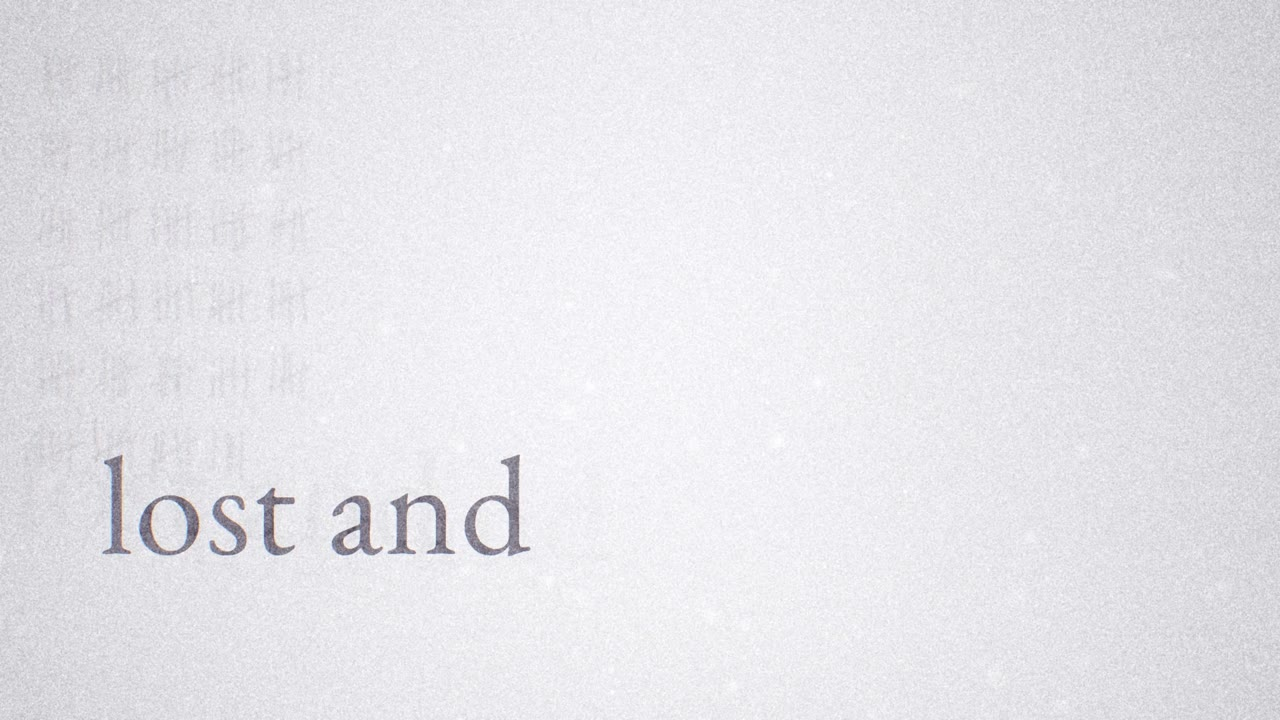
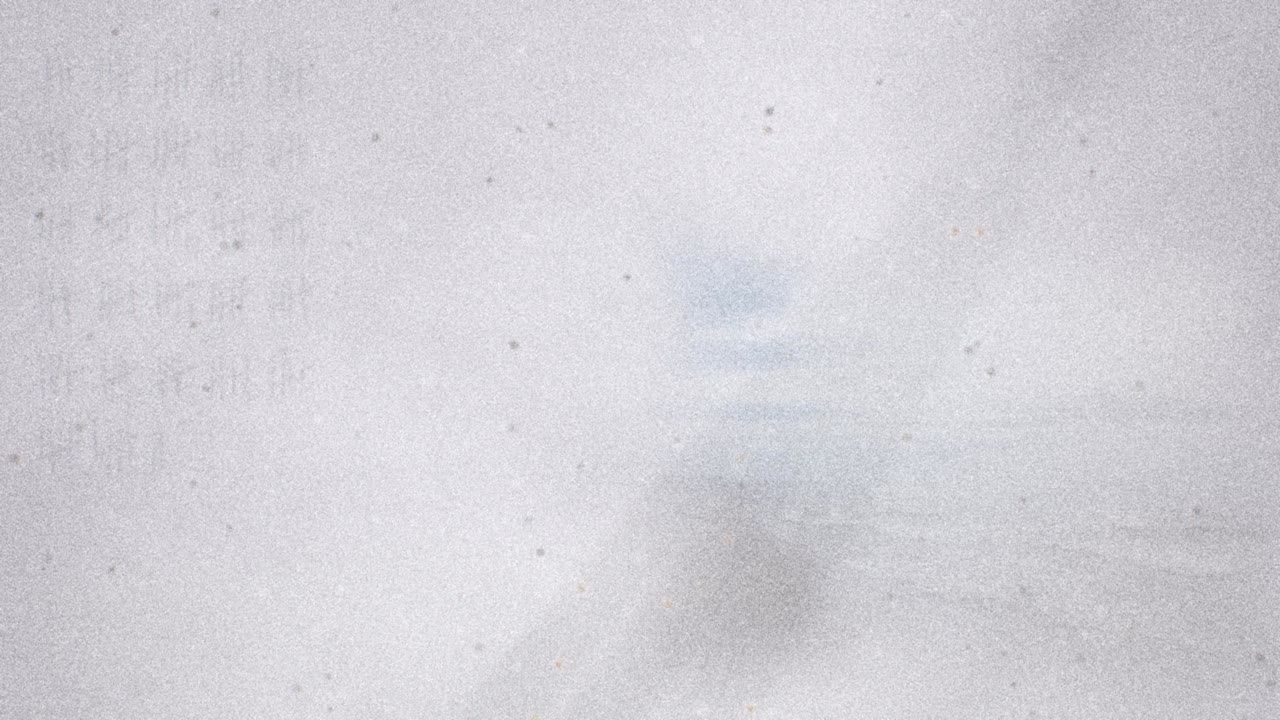
Outro: revised render (shadows and healed scars, no title) on the storyboard
Claude-Session: https://claude.ai/code/session_013aPae8dR11r7xw8o95d9Yi

diff --git a/storyboard/index.html b/storyboard/index.html
@@ -150,7 +150,7 @@ ol.steps li::marker { font: 600 0.85rem var(--mono); color: var(--ink-2); }
   </video>
   <figcaption><b>Outro</b>
     <span class="tc">7:32.1 → 8:13.6 · bars 133–145</span>
-    <span class="note">The loop closes. Her last sound is a wordless held note (7:38.8-7:54.5): in Break II her hum was the gold dust in his shafts; his light is gone now, so the dust drifts through her room on its own (a steady drift, no rise), warm only while she sings, and fades with her voice. The fog thins toward white and the Intro&#x27;s first memories (the curtained bedroom, the overcast lake) go. Then the title, which all film long was only an unreadable echo where &#x27;found...&#x27; landed, surfaces plainly in that same place, letter by letter, still, with the empty space after it: nothing completes it this time. The last tally mark scratches in to land on the last downbeat; the final frame is nearly the Intro&#x27;s first, white, &#x27;lost and&#x27; and its empty space, with the count of everything in between. No bullet. Starts a second early, at the end of the Verse A reprise. <a href="renders/outro_contact.jpg">Contact sheet</a></span></figcaption>
+    <span class="note">Revised: no title. The loop closes in the pale room. Her last sound is a wordless held note (7:38.8-7:54.5). In Break II her hum was the gold dust lit inside his shafts; his light is gone and light can&#x27;t glow here, so his shafts return as their absence, three faint cool shadows at their exact angles where his light used to fall, and the drifting dust warms only while she sings and only inside those bands. As her note ends, three healed scars surface where PROTECTING, TRUSTING and BELIEVING were sewn shut: thin grey seams with the ghosts of their stitches, no words, no red. The fog thins toward white and the Intro&#x27;s first memories go; the shadows go first, the scars last. The final tally mark lands on the last downbeat. Starts a second early, at the end of the Verse A reprise. <a href="renders/outro_contact.jpg">Contact sheet</a></span></figcaption>
 </figure>
 <figure class="render" id="render-verse_a_reprise">
   <video controls playsinline preload="metadata" poster="renders/verse_a_reprise_poster.jpg" width="1280" height="720">
@@ -703,9 +703,9 @@ ol.steps li::marker { font: 600 0.85rem var(--mono); color: var(--ink-2); }
       <h3>Outro</h3></header>
     
     <dl>
-      <dt>Picture</dt><dd>The loop closes. Her last sound is a wordless held note: in Break II her hum was the gold dust in his shafts; his light is gone, so the dust drifts through her room on its own, warm only while she sings. The fog thins toward white and the Intro&#x27;s first memories go. Then the title, all film long an unreadable echo where &#x27;found...&#x27; landed, surfaces plainly in that place, with the empty space after it: nothing completes it this time.</dd>
-      <dt>Type</dt><dd>&#x27;lost and&#x27;, in her roman, still, where &#x27;found&#x27; landed; nothing after it.</dd>
-      <dt>Sync</dt><dd>The dust warms with her note (7:38.8-7:54.5); the last tally mark lands on the last downbeat; the last frame is nearly the Intro&#x27;s first.</dd>
+      <dt>Picture</dt><dd>The loop closes, in the pale room. Her last sound is a wordless held note; in Break II her hum was the gold dust lit inside his shafts. His light is gone and light can&#x27;t glow here, so his shafts return as their absence: three faint cool shadows at their exact angles, where his light used to fall. The dust drifts through the room and warms only while she sings, and only inside those bands. After her note, where PROTECTING, TRUSTING and BELIEVING were sewn shut, three healed scars surface: thin grey seams with the ghosts of their stitches, no words, no red. The fog thins toward white and the Intro&#x27;s first memories go.</dd>
+      <dt>Type</dt><dd>No words.</dd>
+      <dt>Sync</dt><dd>The dust warms with her note (7:38.8-7:54.5); the scars surface as it ends; the last tally mark lands on the last downbeat.</dd>
     </dl>
   </div>
 </article></div>
